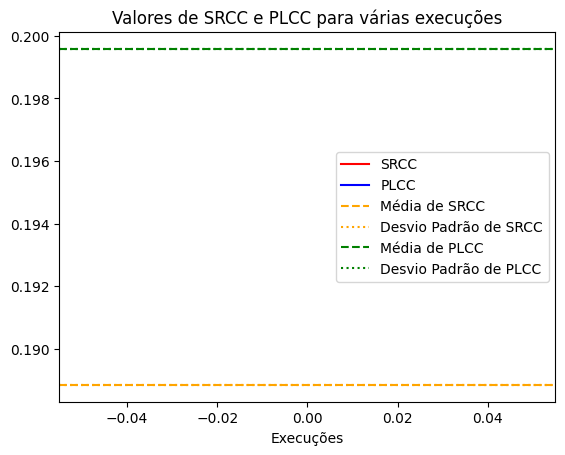
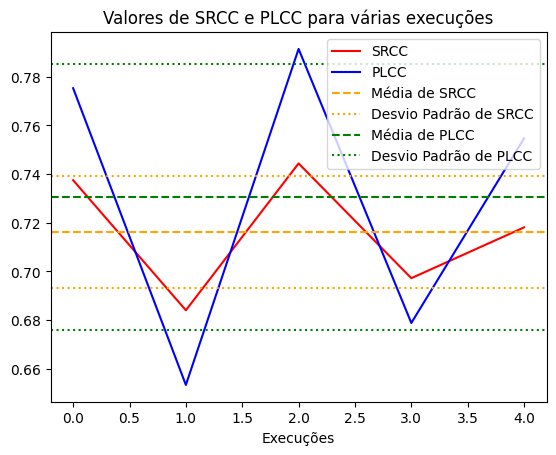
changing koniq csv

diff --git a/image_classification/diqa_training.py b/image_classification/diqa_training.py
@@ -13,7 +13,7 @@ from train_test_nn.train import train_val_diqa
 from train_test_nn.test import validate_model_regression
 
 
-def execute_diqa(epochs:int, dataset_name:str, batch_size:int=1):
+def execute_diqa(epochs:int, model_name:str, dataset_name:str, batch_size:int=1):
     #O batch size não influencia o live, pois, como as imagens possuem tamanho diferente, é mais difícil de fazer os batchs (teria que mexer na função sampler)
     if dataset_name=='live':
         dataset = get_dataset('live', 'data/Live_IQA_release2/')
@@ -21,7 +21,7 @@ def execute_diqa(epochs:int, dataset_name:str, batch_size:int=1):
     elif dataset_name=='koniq-10k':
         dataset = get_dataset('koniq-10k', 'data/KonIQ-10k/', 'data/KonIQ-10k/512x384/')
     else:
-        raise Exception("não tem dataset")
+        raise Exception("Não tem esse dataset")
     
     train_dataset, test_dataset = random_split(dataset, [0.8,0.2]) 
 
@@ -30,45 +30,26 @@ def execute_diqa(epochs:int, dataset_name:str, batch_size:int=1):
 
 
     torch.cuda.init()
-    device = torch.device('cuda:0' if torch.cuda.is_available() else 'cpu')
+    device = torch.device('cuda:2' if torch.cuda.is_available() else 'cpu')
     torch.cuda.empty_cache()
 
-    model = OctDIQA().to(device)
+    if model_name == 'octdiqa':
+        model = OctDIQA().to(device)
+    elif model_name == 'diqa':
+        model = DIQA().to(device)
+    else:
+        raise Exception("Não tem esse modelo")
+    
     optimizer = torch.optim.NAdam(model.parameters(), lr = 2 * 10 ** -4, momentum_decay=0.9)
     criterion = torch.nn.MSELoss()
 
-    print(torch.cuda.memory_summary(device=None, abbreviated=False))
+    #print(torch.cuda.memory_summary(device=None, abbreviated=False))
 
     all_losses = train_val_diqa(model, epochs, criterion, optimizer, device, trainloader, valloader)
 
     dict_metrics, mse_total, total = validate_model_regression(model, valloader, device, coefficients=["PLCC","SRCC"])
 
     return model, dict_metrics, all_losses
-
-def execute_diqa_koniq(epochs:int):
-
-    live_dataset = get_dataset('koniq-10k', 'data/KonIQ-10k/', 'data/KonIQ-10k/512x384/')
-    train_dataset, test_dataset = random_split(live_dataset, [0.8,0.2]) 
-
-    trainloader = DataLoader(train_dataset, batch_size = 4, shuffle = True, num_workers=2, pin_memory=True)
-    valloader = DataLoader(test_dataset, batch_size = 4, shuffle = True, num_workers = 2, pin_memory=True)
-
-
-    torch.cuda.init()
-    device = torch.device('cuda:0' if torch.cuda.is_available() else 'cpu')
-    torch.cuda.empty_cache()
-
-    model = DIQA().to(device)
-    optimizer = torch.optim.NAdam(model.parameters(), lr = 2 * 10 ** -4, momentum_decay=0.9)
-    criterion = torch.nn.MSELoss()
-
-    print(torch.cuda.memory_summary(device=None, abbreviated=False))
-
-    all_losses = train_val_diqa(model, epochs, criterion, optimizer, device, trainloader, valloader)
-
-    dict_metrics, mse_total, total = validate_model_regression(model, valloader, device, coefficients=["PLCC","SRCC"])
-
-    return model, dict_metrics
 
 def image_IQA(model, image_path):
     image = Image.open(image_path).convert('RGB')
@@ -90,12 +71,12 @@ def image_IQA(model, image_path):
 def plot_srcc_list(srcc_list:list, plcc_list:list, name:str):
     plt.plot(srcc_list,color='red', label='SRCC')
     plt.plot(plcc_list, color='blue', label='PLCC')
-    plt.axhline(np.mean(srcc_list), color='orange', linestyle='--', label='Média de SRCC')
-    plt.axhline(np.mean(srcc_list) + np.std(srcc_list), color='orange', linestyle=':', label='Desvio Padrão de SRCC')
-    plt.axhline(np.mean(srcc_list) - np.std(srcc_list), color='orange', linestyle=':')
-    plt.axhline(np.mean(plcc_list), color='green', linestyle='--', label='Média de PLCC')
-    plt.axhline(np.mean(plcc_list) + np.std(plcc_list), color='green', linestyle=':', label='Desvio Padrão de PLCC')
-    plt.axhline(np.mean(plcc_list) - np.std(plcc_list), color='green', linestyle=':')
+    plt.axhline(np.mean(srcc_list), color='red', linestyle='--', label='Média de SRCC')
+    plt.axhline(np.mean(srcc_list) + np.std(srcc_list), color='red', linestyle=':', label='Desvio Padrão de SRCC')
+    plt.axhline(np.mean(srcc_list) - np.std(srcc_list), color='red', linestyle=':')
+    plt.axhline(np.mean(plcc_list), color='blue', linestyle='--', label='Média de PLCC')
+    plt.axhline(np.mean(plcc_list) + np.std(plcc_list), color='blue', linestyle=':', label='Desvio Padrão de PLCC')
+    plt.axhline(np.mean(plcc_list) - np.std(plcc_list), color='blue', linestyle=':')
     plt.legend()
     plt.xlabel("Execuções")
     plt.title("Valores de SRCC e PLCC para várias execuções")
@@ -123,7 +104,7 @@ if __name__ == '__main__':
 
     srcc_list, plcc_list, loss_list = [], [], []
     for i in range(executions):
-        model, metrics, all_losses = execute_diqa_koniq(epochs)
+        model, metrics, all_losses = execute_diqa(epochs, 'diqa', 'koniq-10k', 16)
         srcc_list.append(metrics['SRCC'])
         plcc_list.append(metrics['PLCC'])
         loss_list.append(all_losses)
@@ -133,4 +114,4 @@ if __name__ == '__main__':
 
     plot_srcc_list(srcc_list, plcc_list, name)
 
-    write_metrics_txt(srcc_list, plcc_list, name)
+    write_metrics_txt(srcc_list, plcc_list, loss_list, name)

diff --git a/image_classification/preprocess_images/dataset.py b/image_classification/preprocess_images/dataset.py
@@ -92,7 +92,8 @@ def get_dataset(dataset:str = 'live', path:str = None, img_path:str = None):
         csv_path = root_path + 'koniq10k_scores_and_distributions.csv'
 
         dataframe = pd.read_csv(csv_path)
-        dataframe = dataframe[['image_name', 'MOS']]
+        dataframe = dataframe[['image_name', 'MOS_zscore']]
+        dataframe['MOS_zscore'] = dataframe['MOS_zscore']/100.0
 
         dataset_final = KonIQ(dataframe, img_path, normalize_image)
     else:
